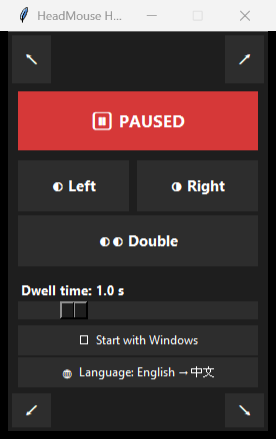
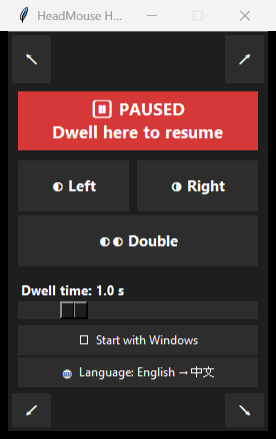
fix(clicker): head-mouse users can resume from paused state
When auto-click was paused, Clicker._tick exited early, leaving the dwell
engine completely dead. A head-mouse user could no longer dwell on the
PAUSE button to bring auto-click back — they were stuck in paused mode
forever (only a physical mouse click could resume).

Fix: while paused, the dwell engine still runs but only inside the resume
zone (the PAUSE/RESUME button rect). The app supplies a callback that
returns true when the cursor is over that button.

Also clarified the paused-state label so users know what to do:
- zh: "⏸ 已暫停\n停留此處可恢復"
- en: "⏸ PAUSED\nDwell here to resume"

Re-captured paused screenshots to reflect the new hint text.

Changed region(s): [[0.1739, 0.2073, 0.8116, 0.3257]]

diff --git a/src/clicker.py b/src/clicker.py
@@ -13,7 +13,7 @@ button to escape the YouTube auto-click trap.
 """
 import threading
 import time
-from typing import Optional
+from typing import Callable, Optional
 
 from src import win32_input
 from src.state import State
@@ -24,8 +24,16 @@ MOVE_TOLERANCE_PX = 25  # head-mouse users jitter; 25px ~= a fingertip diameter
 
 
 class Clicker:
-    def __init__(self, state: State):
+    def __init__(
+        self,
+        state: State,
+        is_over_resume_zone: Optional[Callable[[int, int], bool]] = None,
+    ):
         self.state = state
+        # When auto-click is paused, dwell-click still works but ONLY inside
+        # this zone — typically the PAUSE/RESUME button rect — otherwise a
+        # head-mouse user would have no way to re-enable auto-click.
+        self.is_over_resume_zone = is_over_resume_zone or (lambda x, y: False)
         self._stop_event = threading.Event()
         self._thread: Optional[threading.Thread] = None
         self._last_pos: Optional[tuple[int, int]] = None
@@ -61,16 +69,20 @@ class Clicker:
             time.sleep(period)
 
     def _tick(self) -> None:
-        if not self.state.auto_click_enabled:
-            self._last_pos = None
-            self._dwell_started_at = None
-            return
-
         now = time.monotonic()
         if now < self._cooldown_until or now < self._paused_until:
             return
 
         x, y = win32_input.get_cursor_pos()
+
+        if not self.state.auto_click_enabled:
+            # Paused: only respond to dwell when cursor is over the resume zone
+            # (the big PAUSE button). Otherwise a head-mouse user could never
+            # un-pause.
+            if not self.is_over_resume_zone(x, y):
+                self._last_pos = None
+                self._dwell_started_at = None
+                return
 
         if self._last_pos is None:
             self._last_pos = (x, y)

diff --git a/src/app.py b/src/app.py
@@ -15,7 +15,7 @@ ACTION_PAUSE_PAD_S = 0.7
 class App:
     def __init__(self):
         self.state = State.load()
-        self.clicker = Clicker(self.state)
+        self.clicker = Clicker(self.state, is_over_resume_zone=self._is_over_pause_button)
         self.ui = UI(
             state=self.state,
             on_left_click=self._do_left_click,
@@ -27,6 +27,17 @@ class App:
             on_autostart_change=self._set_autostart,
             on_lang_change=self.state.set_lang,
         )
+
+    def _is_over_pause_button(self, x: int, y: int) -> bool:
+        try:
+            btn = self.ui.pause_btn
+            bx = btn.winfo_rootx()
+            by = btn.winfo_rooty()
+            bw = btn.winfo_width()
+            bh = btn.winfo_height()
+            return bx <= x <= bx + bw and by <= y <= by + bh
+        except Exception:
+            return False
 
     def _arm_action(self, label_key: str, fn) -> None:
         self.clicker.temporary_pause(ACTION_COUNTDOWN_S + ACTION_PAUSE_PAD_S)

diff --git a/src/strings.py b/src/strings.py
@@ -9,7 +9,7 @@ STRINGS: Dict[str, Dict[str, str]] = {
     "zh-TW": {
         "app_title": "HeadMouse Helper 頭控滑鼠助手",
         "auto_on": "● 自動點擊中",
-        "auto_paused": "⏸ 已暫停",
+        "auto_paused": "⏸ 已暫停\n停留此處可恢復",
         "btn_left": "◐ 左鍵",
         "btn_right": "◑ 右鍵",
         "btn_double": "◐◐ 雙擊",
@@ -25,7 +25,7 @@ STRINGS: Dict[str, Dict[str, str]] = {
     "en": {
         "app_title": "HeadMouse Helper",
         "auto_on": "● AUTO-CLICK ON",
-        "auto_paused": "⏸ PAUSED",
+        "auto_paused": "⏸ PAUSED\nDwell here to resume",
         "btn_left": "◐ Left",
         "btn_right": "◑ Right",
         "btn_double": "◐◐ Double",
